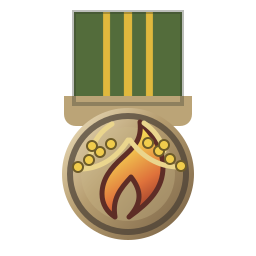
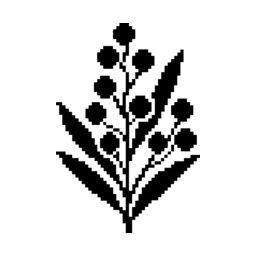
Medal

diff --git a/src/styles/global.css b/src/styles/global.css
@@ -1828,7 +1828,7 @@ h3 {
 
 .project-awards-medal-rack {
 	position: absolute;
-	top: clamp(-56px, -5vw, -38px);
+	top: clamp(-40px, -3.5vw, -22px);
 	right: clamp(12px, 2vw, 28px);
 	z-index: 6;
 	pointer-events: none;
@@ -1842,7 +1842,7 @@ h3 {
 }
 
 .project-award {
-	--award-medal-width: clamp(58px, 6vw, 76px);
+	--award-medal-width: clamp(52px, 5.4vw, 68px);
 	position: relative;
 	display: inline-block;
 	width: var(--award-medal-width);
@@ -1853,7 +1853,7 @@ h3 {
 }
 
 .project-award:hover {
-	transform: translateY(-2px) rotate(-1deg);
+	transform: translateY(-4px);
 }
 
 .project-award:focus {
@@ -1876,44 +1876,49 @@ h3 {
 
 .project-award-emblem {
 	position: absolute;
-	top: 69%;
+	top: 72%;
 	left: 50%;
-	width: 38%;
-	height: 19%;
-	filter: drop-shadow(0 1px 1px color-mix(in srgb, var(--heading) 26%, transparent));
+	width: 62%;
+	height: 34%;
+	filter: brightness(0) drop-shadow(0 1px 1px color-mix(in srgb, var(--heading) 26%, transparent));
 	object-fit: contain;
+	object-position: center;
 	transform: translate(-50%, -50%);
+}
+
+:root[data-theme="dark"] .project-award-emblem {
+	filter: brightness(0) invert(1) drop-shadow(0 1px 1px color-mix(in srgb, var(--heading) 26%, transparent));
 }
 
 .project-award-details {
 	position: absolute;
-	top: calc(100% + 10px);
+	top: calc(100% + 12px);
 	right: 0;
 	z-index: 5;
 	display: grid;
-	gap: 4px;
+	gap: 3px;
 	width: max-content;
 	max-width: min(260px, calc(100vw - 48px));
-	border: 1px solid color-mix(in srgb, var(--accent) 24%, var(--border));
-	border-radius: 10px;
-	background: color-mix(in srgb, var(--surface) 94%, var(--bg));
-	box-shadow: var(--shadow);
+	border: 1px solid color-mix(in srgb, var(--accent) 46%, var(--border));
+	border-radius: 14px;
+	background: color-mix(in srgb, var(--accent) 5%, var(--bg));
+	box-shadow: var(--shadow-soft);
 	color: var(--muted);
 	font-size: 0.82rem;
 	font-weight: 800;
 	line-height: 1.24;
 	opacity: 0;
-	padding: 10px 12px;
+	padding: 10px 12px 9px;
 	pointer-events: none;
 	text-align: left;
-	transform: translateY(-4px);
+	transform: translateY(6px);
 	transition:
 		background-color var(--theme-transition),
 		border-color var(--theme-transition),
 		box-shadow var(--theme-transition),
 		color var(--theme-transition),
-		opacity 140ms ease,
-		transform 140ms ease;
+		opacity 180ms ease,
+		transform 180ms ease;
 }
 
 .project-award-details::after {
@@ -1922,9 +1927,9 @@ h3 {
 	right: 25px;
 	width: 10px;
 	height: 10px;
-	border-top: 1px solid color-mix(in srgb, var(--accent) 24%, var(--border));
-	border-left: 1px solid color-mix(in srgb, var(--accent) 24%, var(--border));
-	background: color-mix(in srgb, var(--surface) 94%, var(--bg));
+	border-top: 1px solid color-mix(in srgb, var(--accent) 46%, var(--border));
+	border-left: 1px solid color-mix(in srgb, var(--accent) 46%, var(--border));
+	background: color-mix(in srgb, var(--accent) 5%, var(--bg));
 	content: "";
 	transform: rotate(45deg);
 }
@@ -1956,12 +1961,12 @@ h3 {
 
 @media (max-width: 560px) {
 	.project-awards-medal-rack {
-		top: -42px;
+		top: -28px;
 		right: 10px;
 	}
 
 	.project-award {
-		--award-medal-width: 54px;
+		--award-medal-width: 48px;
 	}
 
 	.project-award-details {
